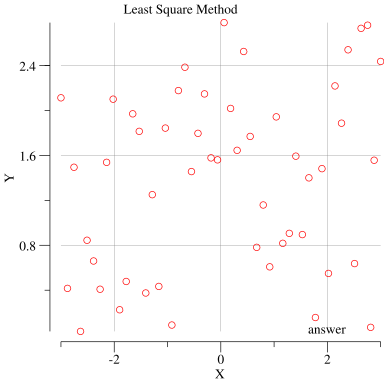
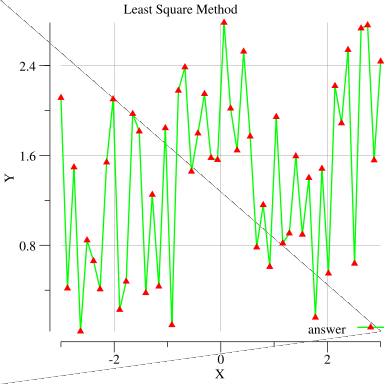
update

diff --git a/least-squares-method/lsm.go b/least-squares-method/lsm.go
@@ -44,22 +44,24 @@ func main() {
   if err != nil {
     panic(err)
   }
-
   p.Title.Text = "Least Square Method"
   p.X.Label.Text = "X"
   p.Y.Label.Text = "Y"
   p.Add(plotter.NewGrid())
 
   // Make a scatter plotter and set its style
-  s, err := plotter.NewScatter(answer)
+  // Make a line plotter with points and set its style.
+  lpLine, lpPoints, err := plotter.NewLinePoints(answer)
   if err != nil {
     panic(err)
   }
-  s.GlyphStyle.Color = color.RGBA{R: 255, A: 255}
+  lpLine.Color = color.RGBA{G: 255, A: 255}
+  lpPoints.Shape = plot.PyramidGlyph{}
+  lpPoints.Color = color.RGBA{R: 255, A: 255}
   
   // Add data and legend
-  p.Add(s)
-  p.Legend.Add("answer", s)
+  p.Add(lpLine, lpPoints)
+  p.Legend.Add("answer", lpLine, lpPoints)
   
   // Save the plot to a PNG file.
   if err := p.Save(4, 4, "points3.png"); err != nil {
